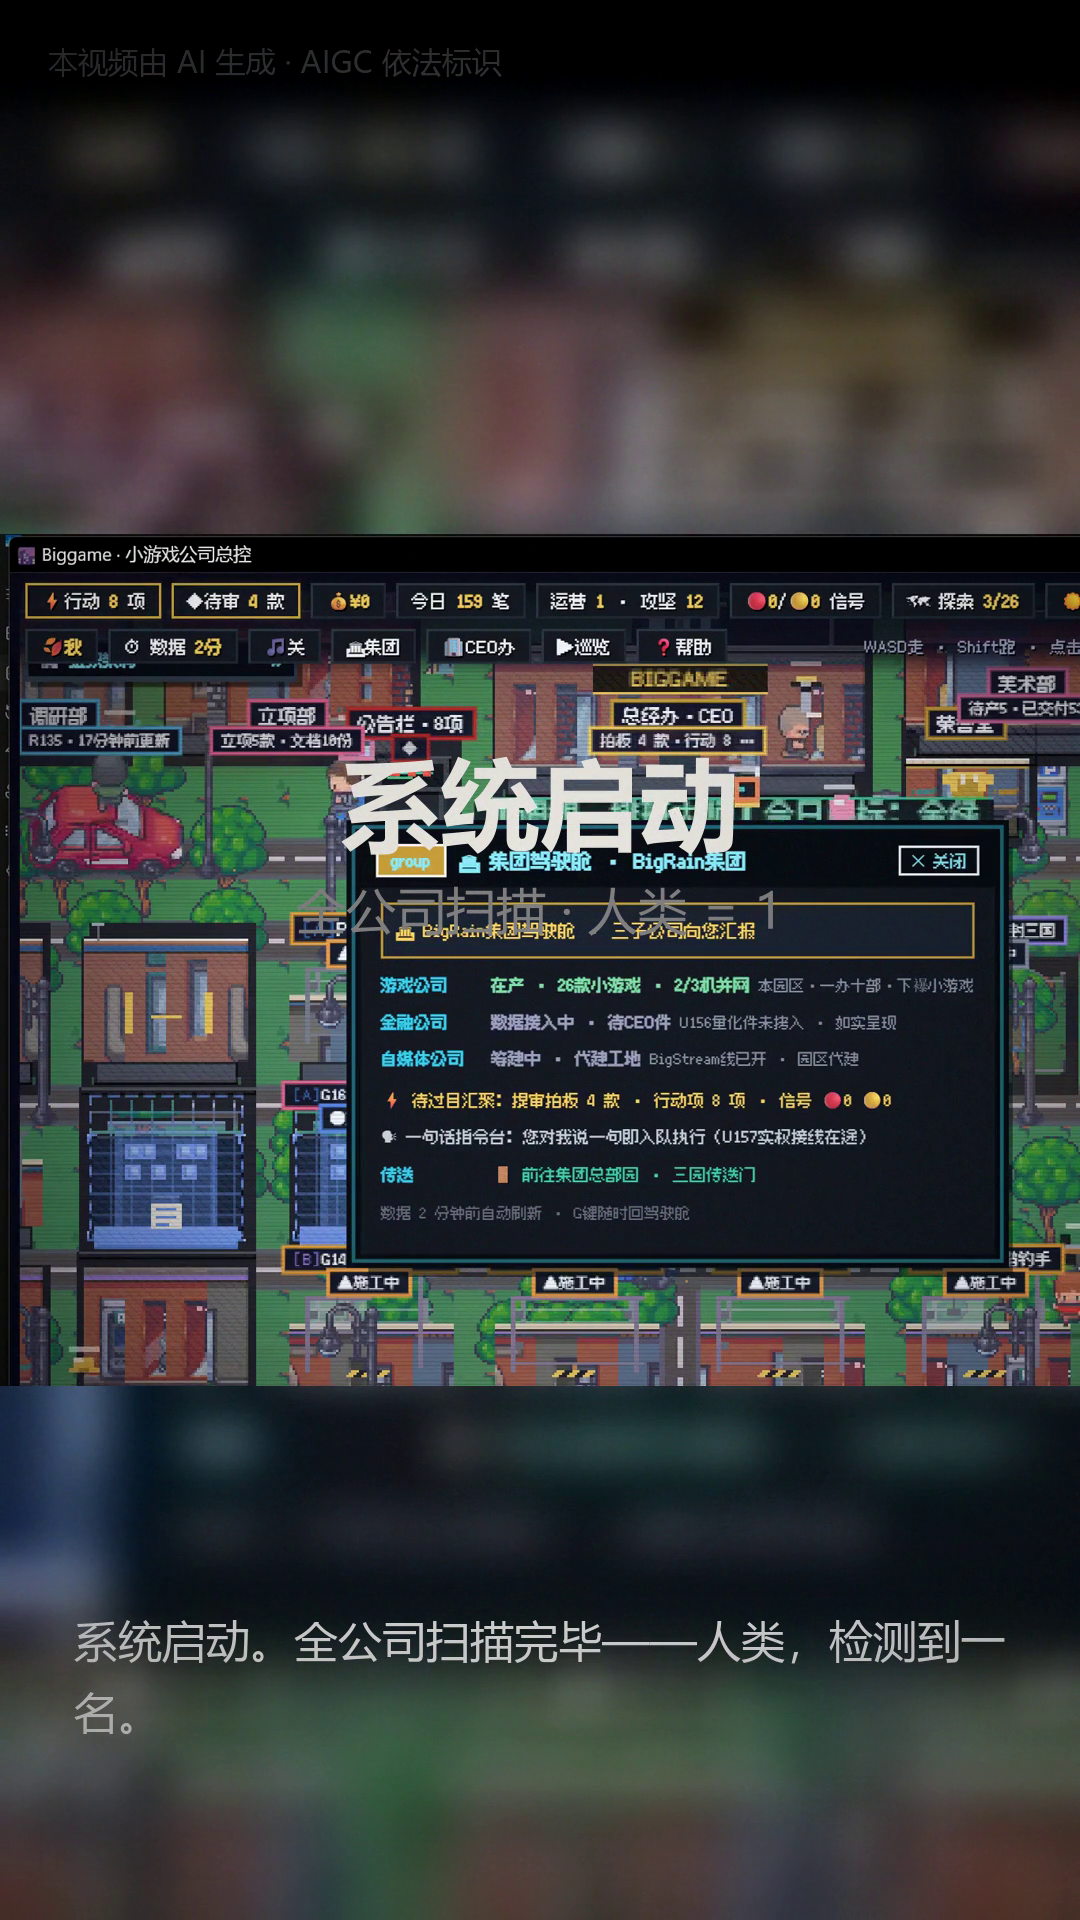
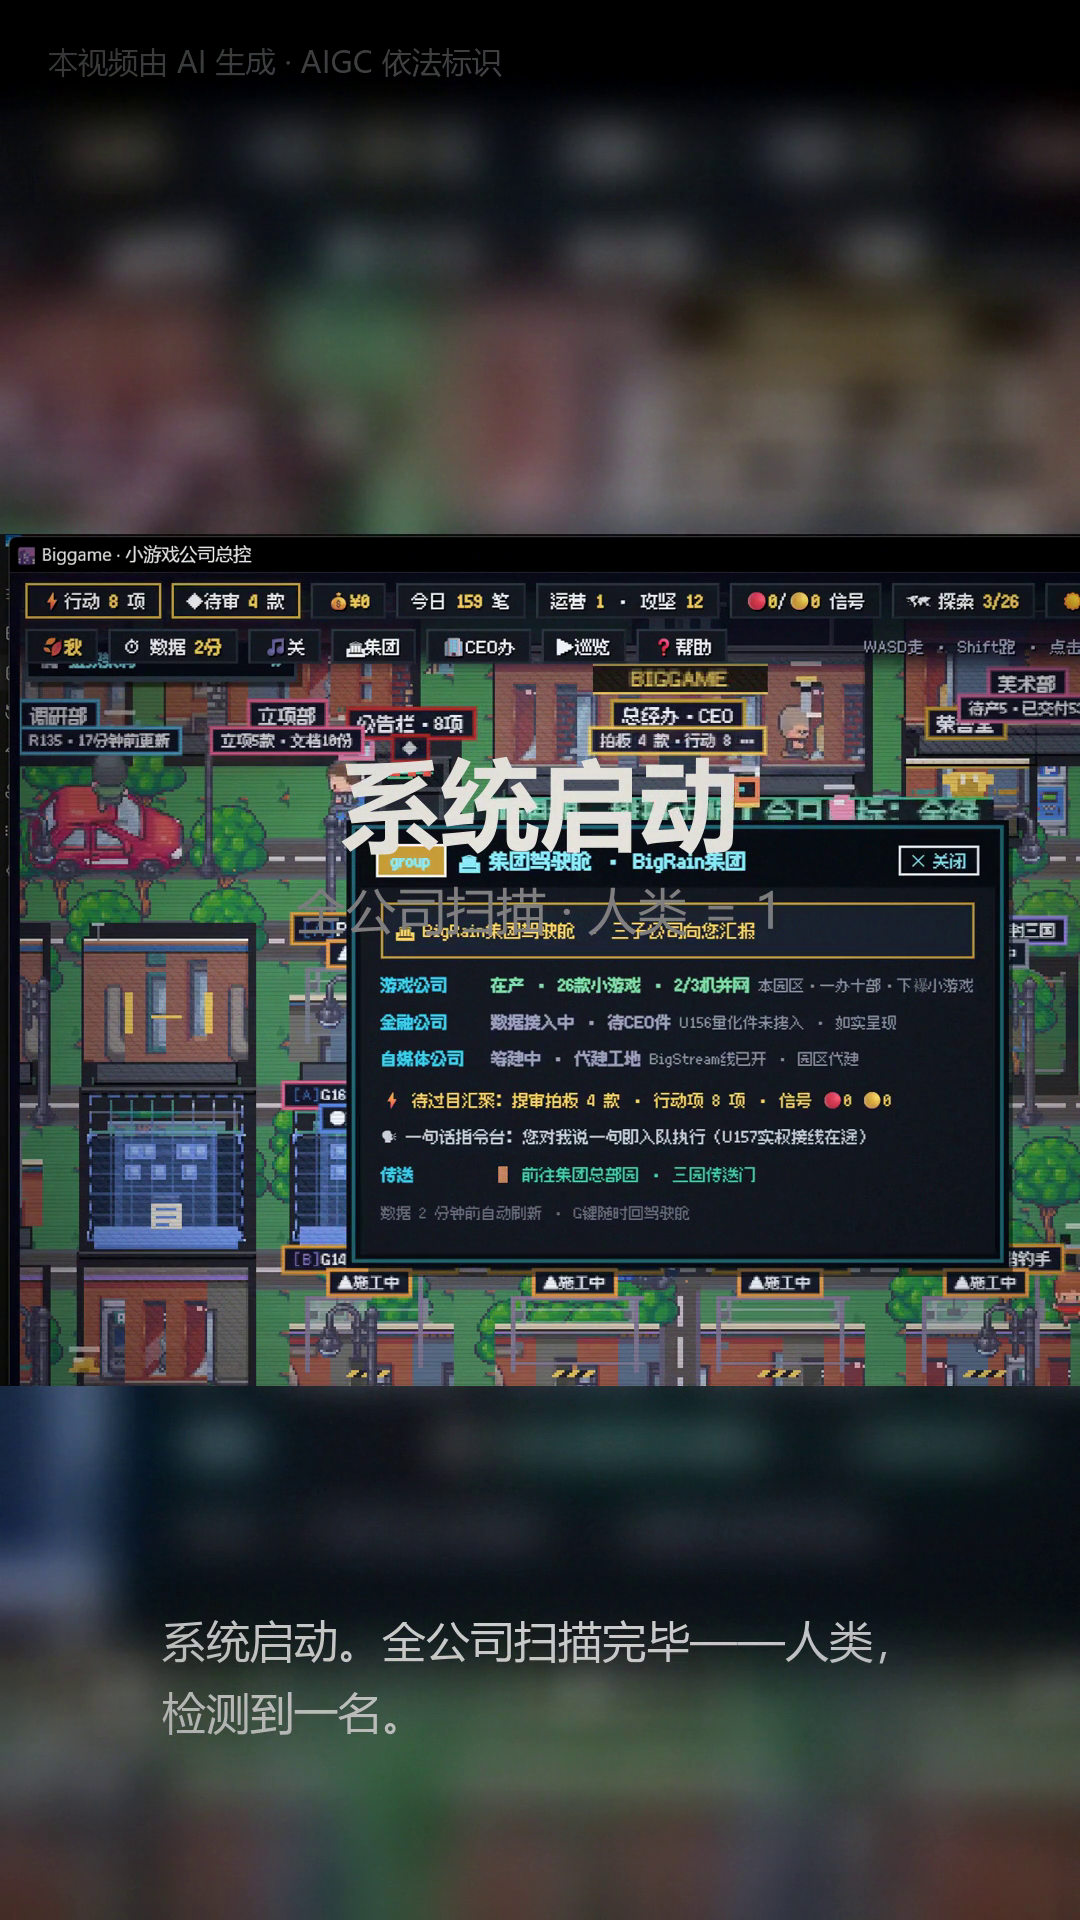
Live-sample iteration round (autonomous, non-style-gated fixes only): subtitle wrap now punctuation-preferred (clause enders break first - 'detected/one person' word-split mended to break after the comma, frame-verified), orphan-tail mending kept, AIGC notice contrast 0.6->0.8 (compliance legibility

Changed region(s): [[0.0611, 0.8438, 0.8861, 0.9062]]

diff --git a/src/render/render_card_video.py b/src/render/render_card_video.py
@@ -135,23 +135,67 @@ def _em_cost(ch):
     return 0.55
 
 
+def _line_cost(s):
+    return sum(_em_cost(ch) for ch in s)
+
+
+# clause enders for punctuation-preferred subtitle breaks (O-20260924-1115)
+_BREAK_AFTER = set(",.!?;:...,"
+                   "\uff0c\u3002\uff01\uff1f\uff1b\uff1a\u3001\u2026")
+
+
+def _prefer_punct_break(cur, next_cost, budget):
+    """Given a full line `cur` that cannot take the next char, choose
+    the break: prefer after the LAST clause punctuation when that
+    leaves a next line that still fits; else hard-break at the edge.
+    Returns (head, tail_next_line_start). Pure."""
+    best = -1
+    for i, ch in enumerate(cur):
+        if ch in _BREAK_AFTER:
+            best = i
+    if best != -1:
+        tail = cur[best + 1:]
+        if len(tail) >= 2 and _line_cost(tail) + next_cost <= budget:
+            return cur[:best + 1], tail
+    return cur, ""
+
+
 def wrap_for_width(text, fontsize, frame_w, margin=80):
     """Greedy-wrap text so each rendered line fits the frame budget.
-    Existing newlines are respected (wrapped per paragraph)."""
+    Existing newlines are respected (wrapped per paragraph).
+
+    O-20260924-1115 iteration inputs #3 (two rounds):
+    (a) punctuation-preferred breaks - when a wrap point is reached,
+    prefer breaking after the last clause punctuation in the line, so
+    subtitles read as natural clauses instead of splitting words like
+    "detected / one person".
+    (b) orphan-tail mending - a wrap stranding a tiny last line reads
+    as a broken word; pull one char down so the tail keeps >=2 glyphs.
+    """
     budget = (frame_w - 2 * margin) / float(fontsize)
     out_lines = []
     for para in str(text).split("\n"):
         cur, cur_cost = "", 0.0
+        para_lines = []
         for ch in para:
             c = _em_cost(ch)
             if cur and cur_cost + c > budget:
-                out_lines.append(cur)
-                cur, cur_cost = ch, c
+                head, tail = _prefer_punct_break(cur, c, budget)
+                para_lines.append(head)
+                # NB: ch must join the new line - dropping it loses a
+                # glyph (caught by the no-char-lost test assertions).
+                cur, cur_cost = tail + ch, _line_cost(tail + ch)
             else:
                 cur += ch
                 cur_cost += c
         if cur:
-            out_lines.append(cur)
+            para_lines.append(cur)
+        if (len(para_lines) >= 2
+                and len(para_lines[-1].strip()) <= 2
+                and len(para_lines[-2]) > 1):
+            para_lines[-1] = para_lines[-2][-1] + para_lines[-1]
+            para_lines[-2] = para_lines[-2][:-1]
+        out_lines += para_lines
     return "\n".join(out_lines)
 
 
@@ -261,7 +305,7 @@ def build_render_plan(cfg, cues, tmpdir, grain=0, bg_video=False):
         chain = ["[0:v]"]
     chain.append(
         "drawtext=fontfile=%s:textfile=%s:fontsize=%d:fontcolor=%s"
-        ":alpha=0.6:x=48:y=48:line_spacing=%d"
+        ":alpha=0.8:x=48:y=48:line_spacing=%d"
         % (font_q, _q(aigc_p), int(font["aigc_size"]),
            _COLORS.get(spec["h2_color"], "white"), ls))
     for i, c in enumerate(cfg["cards"]):

diff --git a/tests/test_render_card.py b/tests/test_render_card.py
@@ -163,6 +163,46 @@ class TestWrap(unittest.TestCase):
         text = "abcdefgh" * 3
         self.assertEqual(1, len(rcv.wrap_for_width(text, 44, 1080).split("\n")))
 
+    def test_orphan_tail_pulled_up_from_previous_line(self):
+        # O-20260924-1115 input #3: a wrap ending with a lone "name."
+        # strand reads as a broken word; the fix pulls one char down so
+        # the tail keeps >=2 glyphs.
+        text = "\u7cfb" * 20 + "\u540d\u3002"  # 20 chars + orphan "名。"
+        wrapped = rcv.wrap_for_width(text, 44, 1080)
+        lines = wrapped.split("\n")
+        self.assertGreaterEqual(len(lines), 2)
+        self.assertGreaterEqual(len(lines[-1].strip()), 3)  # 名。 + 1 pulled
+        self.assertEqual(len(lines[0]), 19)                 # 20 - 1 pulled down
+        # no character lost
+        self.assertEqual(len(wrapped.replace("\n", "")), len(text))
+
+    def test_punctuation_preferred_break(self):
+        # O-20260924-1115 input #3 round 2: the live-A cue must break at
+        # a clause ender ("detected / one person" was a broken word);
+        # preferred break lands after the last clause punctuation.
+        text = ("\u7cfb\u7edf\u542f\u52a8\u3002\u5168\u516c\u53f8\u626b\u63cf"
+                "\u5b8c\u6bd5\u2014\u2014\u4eba\u7c7b\uff0c\u68c0\u6d4b\u5230"
+                "\u4e00\u540d\u3002")  # 系统启动。全公司扫描完毕——人类，检测到一名。
+        wrapped = rcv.wrap_for_width(text, 44, 1080)
+        lines = wrapped.split("\n")
+        self.assertEqual(2, len(lines))
+        self.assertTrue(lines[0].endswith("\uff0c"))  # break after the comma
+        self.assertEqual("\u68c0\u6d4b\u5230\u4e00\u540d\u3002", lines[1])
+        self.assertEqual(len(wrapped.replace("\n", "")), len(text))
+
+    def test_punct_break_only_when_tail_fits(self):
+        # a punctuation early in the line leaves a tail too long for one
+        # line -> hard break wins (no runaway lines)
+        text = "a\uff0c" + "b" * 30
+        wrapped = rcv.wrap_for_width(text, 44, 1080)
+        for ln in wrapped.split("\n"):
+            # each line within budget (20.9 em; 30 ASCII chars ~16.5em ok)
+            self.assertLessEqual(rcv._line_cost(ln), 21.0)
+
+    def test_single_line_wrap_has_no_orphan_mending(self):
+        text = "abc"
+        self.assertEqual("abc", rcv.wrap_for_width(text, 44, 1080))
+
 
 class TestPlanAndMatch(unittest.TestCase):
     def test_voiceover_match(self):
@@ -183,7 +223,7 @@ class TestPlanAndMatch(unittest.TestCase):
             self.assertEqual(5, ft.count("drawtext="))
             self.assertEqual(4, ft.count("enable='between(t,"))
             # aigc notice persists for the whole video (no enable window)
-            self.assertIn("alpha=0.6", ft)  # O-1937 visual-spec S3: gray60 notice
+            self.assertIn("alpha=0.8", ft)  # O-1115 input #2: notice contrast 0.6->0.8 (gray60)
             # duration = max end (cues 6.5, cards 15) + tail 0.8
             self.assertAlmostEqual(15.8, plan["duration"], places=3)
             for p in plan["textfiles"]:

diff --git a/output/renders/README.md b/output/renders/README.md
@@ -22,8 +22,8 @@
 | bs-001-v8-cyber-full.mp4 | 测试件·非成品 | O-2136 赛博声线组 full（极端参考端）：深度合成链（降调+52Hz 颤+位深压碎+窄频带）·ASR 实测打糊事实词（1080×1920·54.90s·strict 过） |
 | bs-001-v9-cyber-light.mp4 | 测试件·非成品 | O-2136 定档版（CEO 点选 light+机器叙述者）：双整改（爽/累反转+甩锅交账梗回归）·12 拍（1080×1920·59.31s·strict 过·ASR 事实词全存活）——评审六席 9+ **PASS=放行候选**待 CEO 终审（docs/reviews/review-20260923-bs001-v9.md） |
 | bs-001-v10-humanfeel.mp4 | 测试件·非成品 | O-2210 人味机制实证件：v9 同稿唯一变量=四站人味机制（微抖动/呼吸间隙/呼吸声/房间底噪/颗粒暗角深灰底·seed42·grain7）——机检门 A/B：v9 gap-zero FAIL→v10 全 PASS；**64.06s 超 60s=空气预算律立法诱因（机制演示件·量产按 L15 裁文本预算）**（1080×1920·strict 过·ASR 事实词全存活） |
-| bs-001-live-A-pixelboard.mp4 | 测试件·非成品 | O-1115 实录素材试跑 A 版：**Biggame 总控真实录屏底版**（像素小镇看板 45s 实录·gdigrab 区域采集·blur-pad 竖版）+H1/H2 字卡+字幕+AIGC+grain7——复用 v10 全套音频/时间线（产线默认）·strict 过·抽帧验图过（卡可读/AIGC 在位）；spec 门=时长 64.06s 超窗同 v10 在案（机制演示件） |
-| bs-001-live-B-puredoc.mp4 | 测试件·非成品 | O-1115 实录素材试跑 B 版：**纯实录纪录片式**（同底版无字卡·字幕+AIGC+grain4）——strict 过；同 A 版时长超窗在案；A/B 双版=「实拍+字卡」vs「纯实录」两种剪辑路线呈 CEO 拣式 |
+| bs-001-live-A-pixelboard.mp4 | 测试件·非成品 | O-1115 实录素材试跑 A 版：**Biggame 总控真实录屏底版**（像素小镇看板 45s 实录·gdigrab 区域采集·blur-pad 竖版）+H1/H2 字卡+字幕+AIGC+grain7——复用 v10 全套音频/时间线（产线默认）·strict 过·抽帧验图过；**11:5X 迭代重渲**：标点优先断行（「人类，/检测到一名。」验图过）+AIGC 对比度 0.6→0.8+字符丢失 bug 修（断行丢 ch·no-char-lost 测试锁）；spec 门=时长 64.06s 超窗同 v10 在案（机制演示件） |
+| bs-001-live-B-puredoc.mp4 | 测试件·非成品 | O-1115 实录素材试跑 B 版：**纯实录纪录片式**（同底版无字卡·字幕+AIGC+grain4）——strict 过·同 11:5X 迭代重渲（断行+对比度修复同 A）；spec 同超窗在案；A/B 双版=「实拍+字卡」vs「纯实录」两种剪辑路线呈 CEO 拣式 |
 
 > 中间件（独立临时音轨/SRT）存 `output/renders/.samples-tmp/`——O-1830 复现用（samples-review.md §四声明）·非渲染成品·不入本表。
 > 工艺迭代批中间件（O-1918/O-1924/v5）存 `.v3-tmp/`/`.v4-tmp/`/`.v5-tmp/`/`.v5b-tmp/`（分句音频段+BGM+无 BGM 底版+beats 三栏稿）——同性质非成品·不入本表（R21 声明）。
